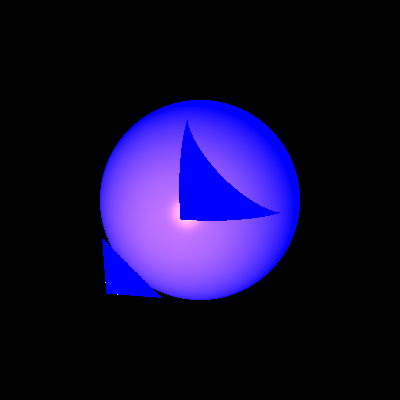
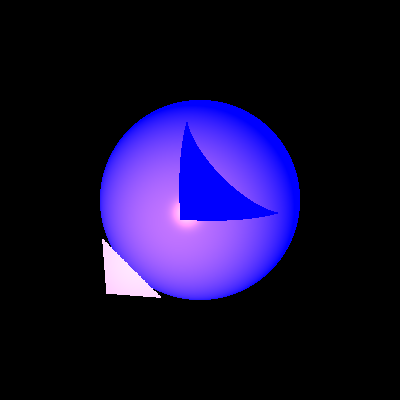
corrected rendering shlav 7

Changed region(s): [[0.24, 0.6, 0.42, 0.75]]

diff --git a/src/geometries/Triangle.java b/src/geometries/Triangle.java
@@ -36,15 +36,20 @@ public class Triangle extends Polygon{
         Vector v1= l.get(0).substract(ray.getP0());
         Vector v2= l.get(1).substract(ray.getP0());
         Vector v3= l.get(2).substract(ray.getP0());
-        Vector n1= (v1.crossProduct(v2)).normalize();
-        Vector n2= (v2.crossProduct(v3)).normalize();
-        Vector n3= (v3.crossProduct(v1)).normalize();
+        Vector n1=(v1.crossProduct(v2)).normalize();//new Vector(0.001,0.001,0.001);
+        Vector n2=(v2.crossProduct(v3)).normalize();//new Vector(0.001,0.001,0.001);
+        Vector n3=(v3.crossProduct(v1)).normalize();//new Vector(0.001,0.001,0.001);
+       /* try {
+            n1= (v1.crossProduct(v2)).normalize();
+            n2= (v2.crossProduct(v3)).normalize();
+            n3= (v3.crossProduct(v1)).normalize();
+        }
+        catch (IllegalArgumentException e){}*/
+        double num1 = n1.dotProduct(ray.getDir());
+        double num2 = n2.dotProduct(ray.getDir());
+        double num3 = n3.dotProduct(ray.getDir());
 
-        double num1= n1.dotProduct(ray.getDir());
-        double num2= n2.dotProduct(ray.getDir());
-        double num3= n3.dotProduct(ray.getDir());
-
-        // if there is an intersection point inside the triangle
+    // if there is an intersection point inside the triangle
         if((num1>0&&num2>0&&num3>0)||(num1<0&&num2<0&&num3<0)) {
             Plane pl = new Plane(l.get(0), l.get(1), l.get(2));
             List<GeoPoint> geoPoints =new LinkedList<>();
